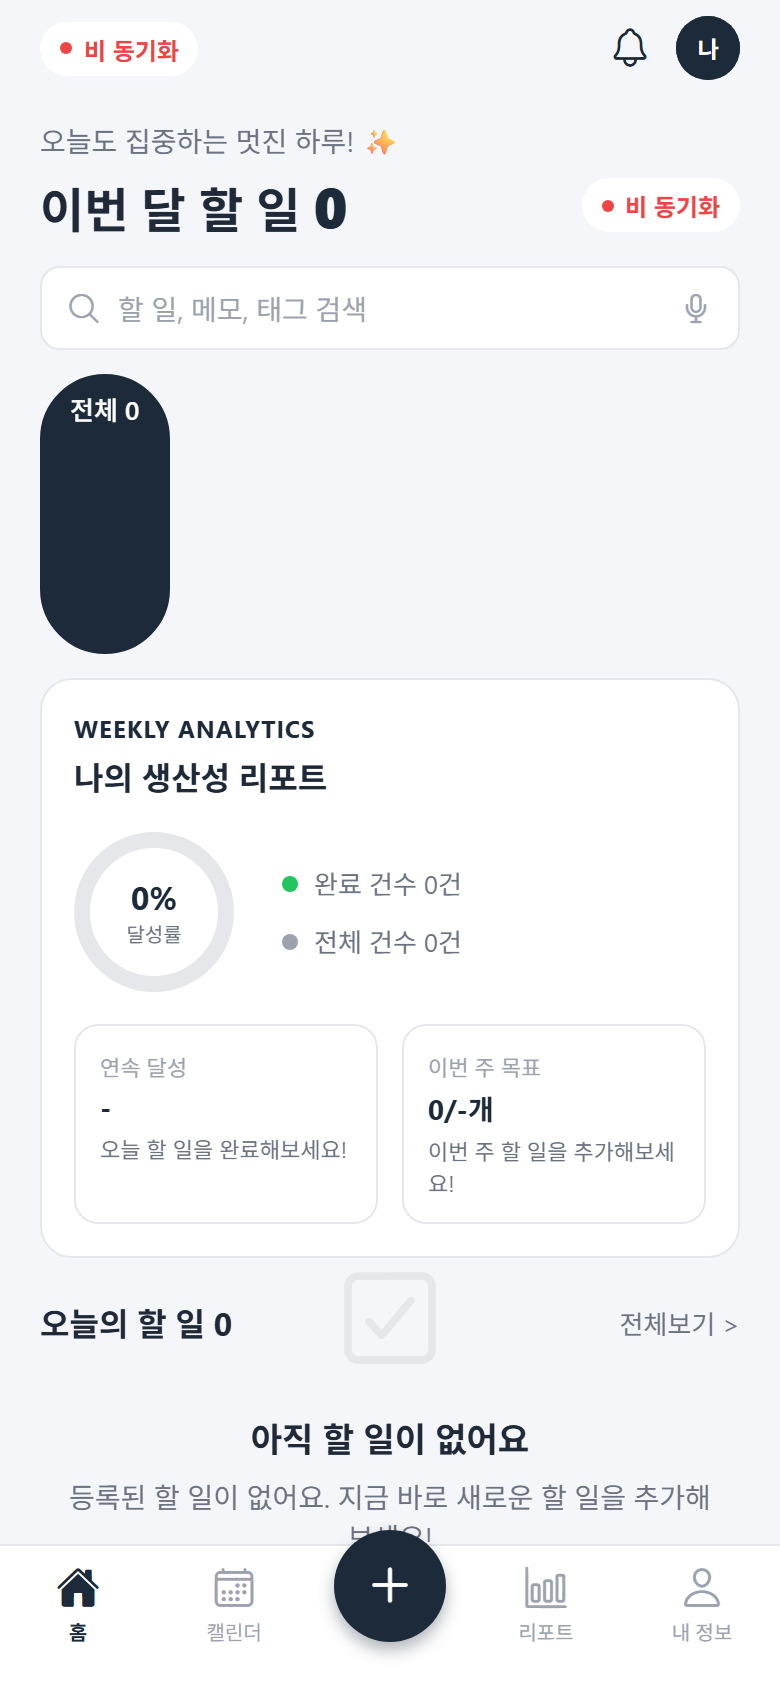
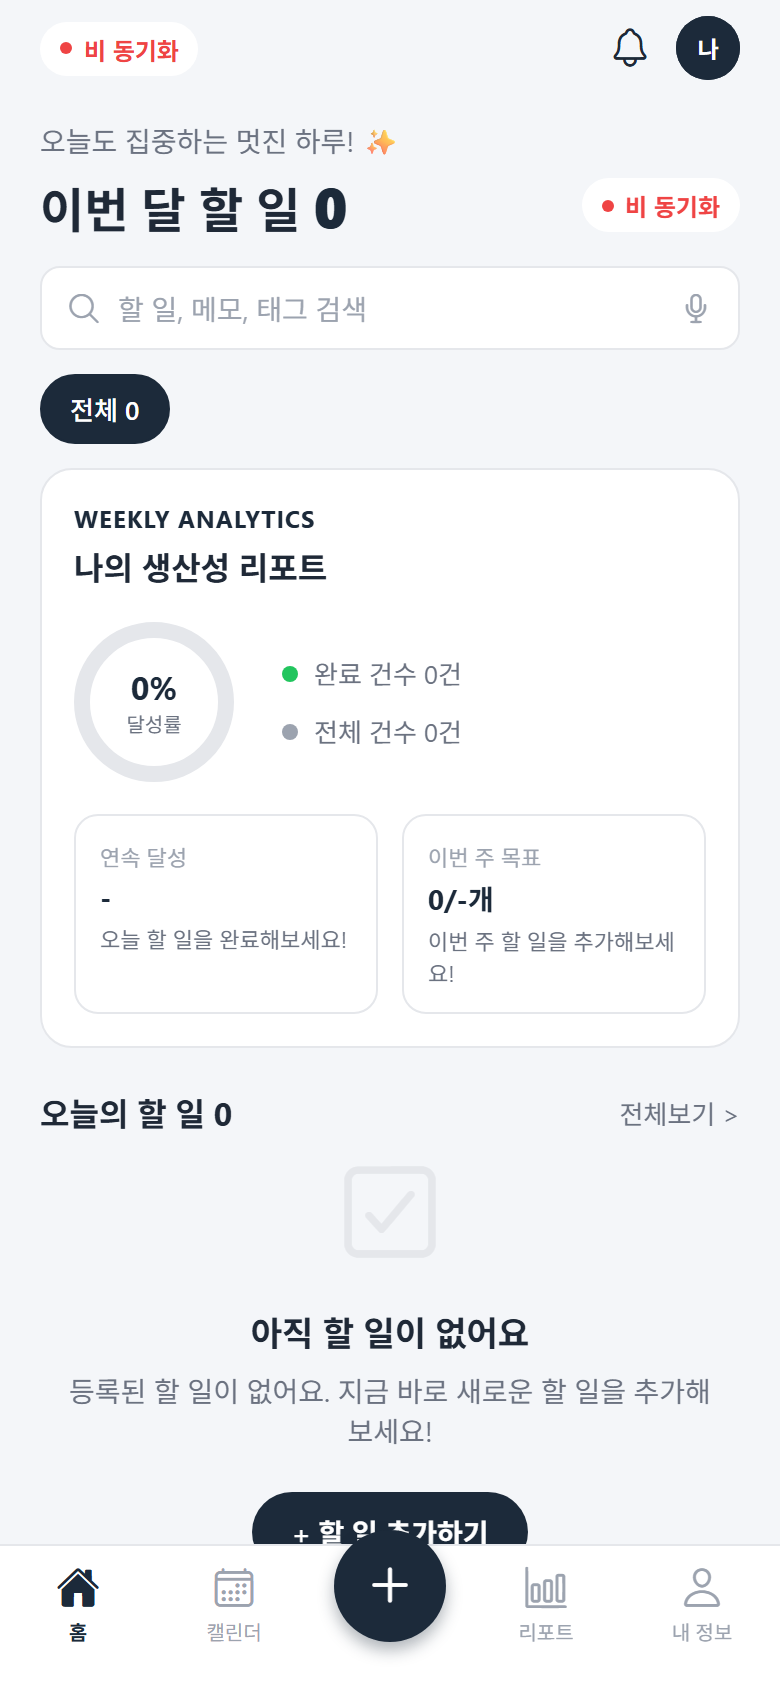
fix: prevent home category filter from stretching vertically

diff --git a/screens/HomeScreen.tsx b/screens/HomeScreen.tsx
@@ -140,6 +140,7 @@ export default function HomeScreen() {
         <ScrollView
           horizontal
           showsHorizontalScrollIndicator={false}
+          style={styles.filterScroll}
           contentContainerStyle={styles.filterRow}
         >
           {/* 전체 칩 */}
@@ -276,6 +277,7 @@ const styles = StyleSheet.create({
   summaryRow: { flexDirection: 'row', alignItems: 'center', justifyContent: 'space-between' },
   monthCount: { fontSize: 24, fontWeight: '700', color: Colors.textPrimary },
   countNum: { fontSize: 28, fontWeight: '800', color: Colors.primary },
+  filterScroll: { flexGrow: 0 },
   filterRow: {
     paddingHorizontal: Spacing.screenHorizontal,
     paddingBottom: 12,
